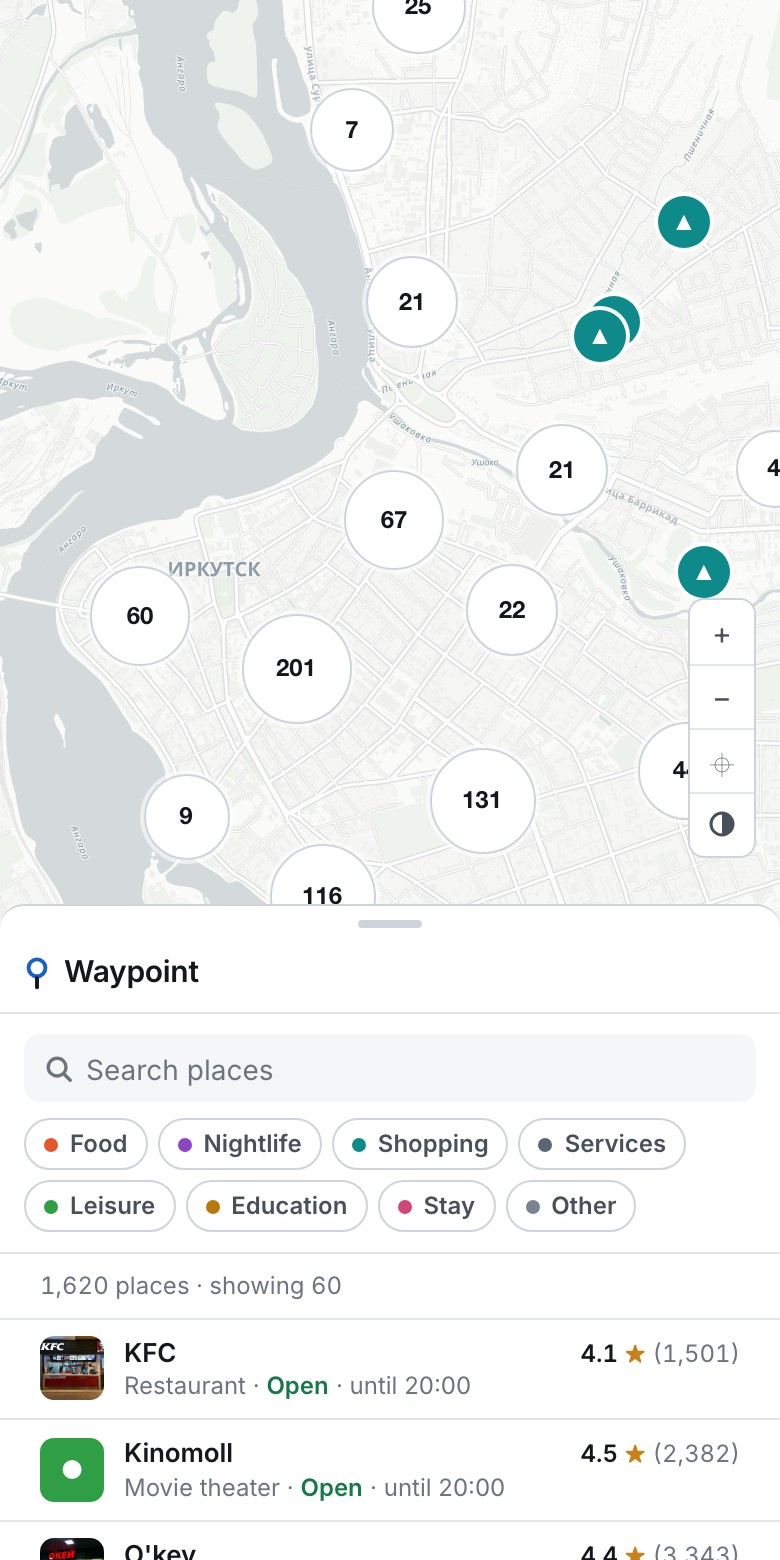
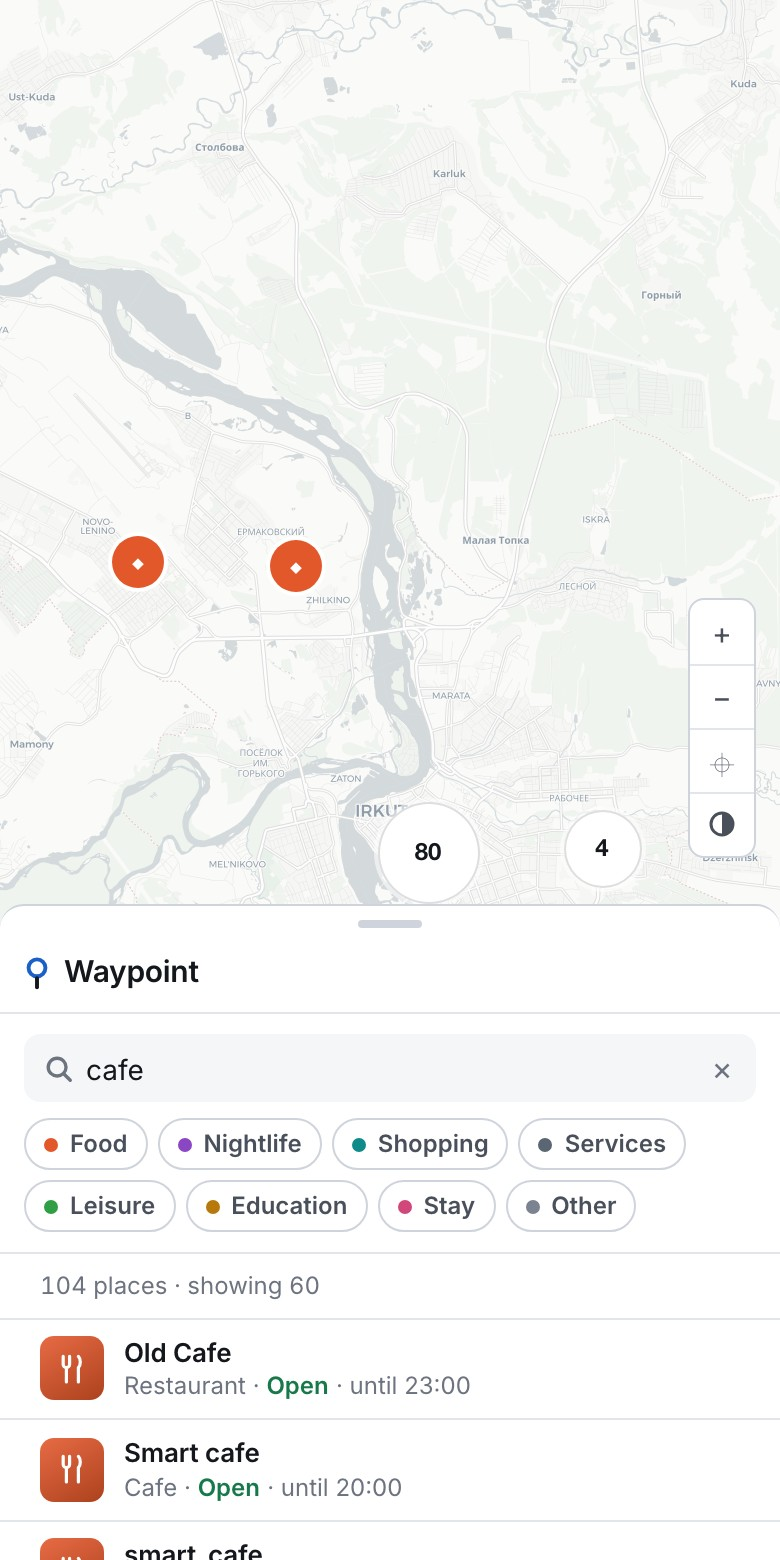
Reshoot the screenshots
The first one now has a category picked, which is the one frame that shows
what the colour is for: the chip, the tiles down the list and the pins on the
map are all the same orange. The place shot moves to the dark theme so the
three images cover both without needing a fourth.

diff --git a/README.md b/README.md
@@ -141,7 +141,7 @@ key-free raster basemap here is one URL template), and needs WebGL — which hea
 reliably have. The trade only starts paying at tens of thousands of points, or when the map needs
 tilt, rotation or data-driven styling. None of that is on this map.
 
-![A place, with hours, contact details and reviews](docs/screenshot-place.jpg)
+![A place — hours, contact details and reviews — in the dark theme](docs/screenshot-place.jpg)
 
 ## Testing
 
